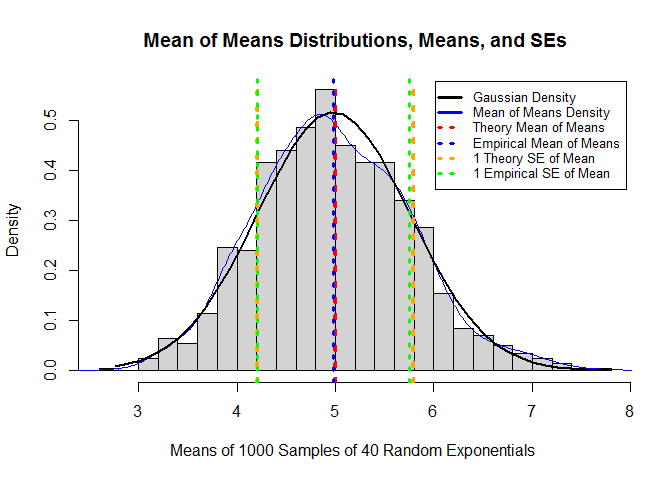
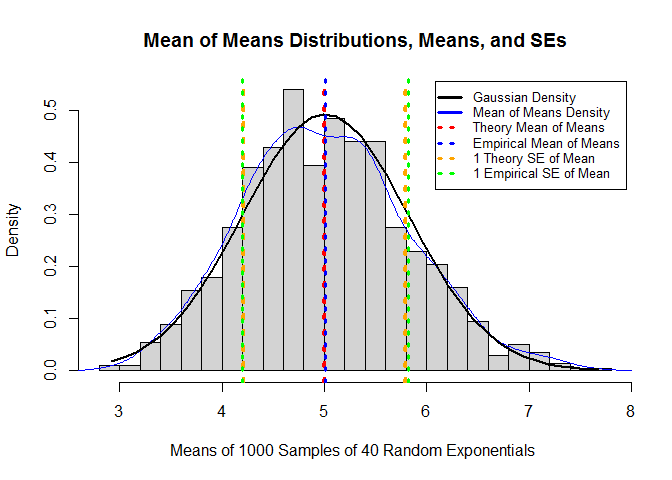
update summary

diff --git a/README.html b/README.html
@@ -61,33 +61,25 @@ img {
 
 
 
-<p><strong>Statistical Inference Course Project (Part 1)</strong></p>
-<p>Note: Code for this document is available at <a href="https://github.com/robbinsr/bootstrappingToApproximateTheory" class="uri">https://github.com/robbinsr/bootstrappingToApproximateTheory</a>.</p>
+<p>Example: Validating that an R function behaves as expected.</p>
 <p>Summary:</p>
-<p>Statistical theory indicates that sample statistics are unbiased estimators (that is good estimators of the population parameters they seek to represent, in the long run). This example shows that the data generated by the R function rexp() indeed, over 40 runs, does provide data that maps to statistical theory. Thus if one is interested in using random data, generated by R, to provide particular simulated data, based upon their populations hypthosized distributions (Poisson in the case of binary, etc.), one can likely rely on R to generate this data.</p>
-<p><strong>Instructions</strong></p>
-<p>The exponential distribution can be simulated in R with rexp(n, lambda) where lambda is the rate parameter. The mean of exponential distribution is 1/lambda and the standard deviation is also also 1/lambda. Set lambda = 0.2 for all of the simulations. In this simulation, you will investigate the distribution of averages of 40 exponential(0.2)s. Note that you will need to do a thousand or so simulated averages of 40 exponentials.</p>
-<p>Illustrate via simulation and associated explanatory text the properties of the distribution of the mean of 40 exponential(0.2)s. You should</p>
-<ol style="list-style-type: decimal">
-<li><p>Show where the distribution is centered at and compare it to the theoretical center of the distribution.</p></li>
-<li><p>Show how variable it is and compare it to the theoretical variance of the distribution.</p></li>
-<li><p>Show that the distribution is approximately normal.</p></li>
-</ol>
-<p>Note that for point 3, focus on the difference between the distribution of a large collection of random exponentials and the distribution of a large collection of averages of 40 exponentials.</p>
-<p><strong>Executive Summary</strong></p>
-<p>Re: Point 1: This report shows that the distribution is centered at 5.0365828 and that the theory indicated it would be centered at 5. Re: Point 2: his report shows that distribution has a standard error of the mean of 0.7883693 and that the theory indicated it would be 0.7905694. Re: Point 3: This report shows that the distribution that was generated approximates the Gaussian distribution.</p>
+<p>Statistical theory indicates that sample statistics are unbiased estimators of the population parameters they seek to represent. This example shows that the data generated by the R function rexp() indeed, over 40 draws performed 1000 times, does provide data that maps to statistical theory. Thus, this analysis shows, that in at least in the context shown here, the function rexp() acts as expected. Note that if it acts as expected, it can then be used for simulation experiences, if all other constraints are met.</p>
+<p>Please refer to the graph below.</p>
+<p>The average mean is centered at 5.0365828. Theory, for this lambda, indicated it would be centered at 5.</p>
+<p>The standard error of the mean is 0.7883693. Theory, for this lambda, indicated it would be 0.7905694.</p>
+<p>Note that the distribution that was generated approximates the Gaussian distribution, which is what is expected when sample statistics are indeed unbiased estimators.</p>
 <pre><code>## Installing package into 'C:/Users/Russ/Documents/R/win-library/3.2'
 ## (as 'lib' is unspecified)</code></pre>
 <pre><code>## package 'plotrix' successfully unpacked and MD5 sums checked
 ## 
 ## The downloaded binary packages are in
-##  C:\Users\Russ\AppData\Local\Temp\RtmpuAi8qN\downloaded_packages</code></pre>
[1 lines of base64/hex data omitted]
+##  C:\Users\Russ\AppData\Local\Temp\Rtmp8uj8Vs\downloaded_packages</code></pre>
[1 lines of base64/hex data omitted]
 <pre><code>## [1] &quot;#&quot;</code></pre>
 <p><strong>Appendix</strong></p>
-<p>Note that the results (as shown in the fitures) differ from since different simulations were run. The code for for the executive summary is hidden (i.e., echo=FALSE).</p>
+<p>Note that the results (as shown in the figures above) differ from since different simulations were run. The code for for the executive summary is hidden (i.e., echo=FALSE).</p>
 <ol style="list-style-type: decimal">
-<li>First I set the parameters as per the instructions and computed the expected, or theoretical mean (of the means of the samples that will be drawn) as well as the theoretical standard error.</li>
+<li>First I set the parameters to be used with rexp().</li>
 </ol>
 <pre class="r"><code>a_lambda &lt;- 0.2
 a_n=40
@@ -168,11 +160,12 @@ abline(v=a_exp_mean_of_means-exp_SE_of_means,col=&quot;orange&quot;, lwd=4, lty=
 abline(v=a_exp_mean_of_means+exp_SE_of_means,col=&quot;orange&quot;, lwd=4, lty=3)
 abline(v=a_emp_mean_of_means-emp_SE_of_means,col=&quot;green&quot;, lwd=3, lty=3)
 abline(v=a_emp_mean_of_means+emp_SE_of_means,col=&quot;green&quot;, lwd=3, lty=3)</code></pre>
[2 lines of base64/hex data omitted]
 <pre class="r"><code>a_t</code></pre>
 <pre><code>##      Theoretical Empirical
-## Mean   5.0000000 5.0383929
-## SE     0.7905694 0.8260665</code></pre>
+## Mean   5.0000000 4.9713644
+## SE     0.7905694 0.7911252</code></pre>
+<p>Note: Code for this document is available at <a href="https://github.com/robbinsr/validatingRexpBehavior" class="uri">https://github.com/robbinsr/validatingRexpBehavior</a>.</p>
 
 
 </div>

diff --git a/README.md b/README.md
@@ -1,28 +1,18 @@
-**Statistical Inference Course Project (Part 1)**
-
-Note: Code for this document is available at https://github.com/robbinsr/bootstrappingToApproximateTheory.
+Example: Validating that an R function behaves as expected.
 
 Summary:
 
-Statistical theory indicates that sample statistics are unbiased estimators (that is good estimators of the population parameters they seek to represent, in the long run). This example shows that the data generated by the R function rexp() indeed, over 40 runs, does provide data that maps to statistical theory. Thus if one is interested in using random data, generated by R, to provide particular simulated data, based upon their populations hypthosized distributions (Poisson in the case of binary, etc.), one can likely rely on R to generate this data. 
+Statistical theory indicates that sample statistics are unbiased estimators of the population parameters they seek to represent. This example shows that the data generated by the R function rexp() indeed, over 40 draws performed 1000 times, does provide data that maps to statistical theory. Thus, this analysis shows, that in at least in the context shown here, the function rexp() acts as expected. Note that if it acts as expected, it can then be used for simulation experiences, if all other constraints are met.
 
-**Instructions**
+Please refer to the graph below.
 
-The exponential distribution can be simulated in R with rexp(n, lambda) where lambda is the rate parameter. The mean of exponential distribution is 1/lambda and the standard deviation is also also 1/lambda. Set lambda = 0.2 for all of the simulations. In this simulation, you will investigate the distribution of averages of 40 exponential(0.2)s. Note that you will need to do a thousand or so simulated averages of 40 exponentials.
+The average mean is centered at 5.0365828.
+Theory, for this lambda, indicated it would be centered at 5. 
 
-Illustrate via simulation and associated explanatory text the properties of the distribution of the mean of 40 exponential(0.2)s.  You should
+The standard error of the mean is 0.7883693.
+Theory, for this lambda, indicated it would be 0.7905694. 
 
-1. Show where the distribution is centered at and compare it to the theoretical center of the distribution.
-
-2. Show how variable it is and compare it to the theoretical variance of the distribution.
-
-3. Show that the distribution is approximately normal.
-
-Note that for point 3, focus on the difference between the distribution of a large collection of random exponentials and the distribution of a large collection of averages of 40 exponentials. 
-
-**Executive Summary**
-
-Re: Point 1: This report shows that the distribution is centered at 5.0365828 and that the theory indicated it would be centered at 5. Re: Point 2: his report shows that distribution has a standard error of the mean of 0.7883693 and that the theory indicated it would be 0.7905694. Re: Point 3: This report shows that the distribution that was generated approximates the Gaussian distribution.
+Note that the distribution that was generated approximates the Gaussian distribution, which is what is expected when sample statistics are indeed unbiased estimators.
 
 
 ```
@@ -34,7 +24,7 @@ Re: Point 1: This report shows that the distribution is centered at 5.0365828 an
 ## package 'plotrix' successfully unpacked and MD5 sums checked
 ## 
 ## The downloaded binary packages are in
-## 	C:\Users\Russ\AppData\Local\Temp\RtmpuAi8qN\downloaded_packages
+## 	C:\Users\Russ\AppData\Local\Temp\Rtmp8uj8Vs\downloaded_packages
 ```
 
 
@@ -47,9 +37,9 @@ Re: Point 1: This report shows that the distribution is centered at 5.0365828 an
 
 **Appendix** 
 
-Note that the results (as shown in the fitures) differ from since different simulations were run. The code for for the executive summary is hidden (i.e., echo=FALSE).
+Note that the results (as shown in the figures above) differ from since different simulations were run. The code for for the executive summary is hidden (i.e., echo=FALSE).
 
-1. First I set the parameters as per the instructions and computed the expected, or theoretical mean (of the means of the samples that will be drawn) as well as the theoretical standard error.
+1. First I set the parameters to be used with rexp().
 
 ```r
 a_lambda <- 0.2
@@ -88,8 +78,6 @@ a_xname<-paste("Mean: ", a_rexp_mean3," SD: ", a_rexp_sd3)
 hist(x=a_rexp_sim3,xlab=a_xname)
 ```
 
-
-
 3. Then I ran 1000 simulations of samples of 40 randomly drawn exponentials and computed the empirical mean as well as the empircal standard error.
 
 ```r
@@ -103,7 +91,6 @@ a_h<-unlist(a_rexp_sims_sample_means[,1])
 ```
 
 4. Then I created a table and a histogram to show that the theory and the empirical results actually agreed.
-
 
 ```r
 statistics<-c(a_exp_mean_of_means,
@@ -150,6 +137,8 @@ a_t
 
 ```
 ##      Theoretical Empirical
-## Mean   5.0000000 5.0383929
-## SE     0.7905694 0.8260665
+## Mean   5.0000000 4.9713644
+## SE     0.7905694 0.7911252
 ```
+
+Note: Code for this document is available at https://github.com/robbinsr/validatingRexpBehavior.
